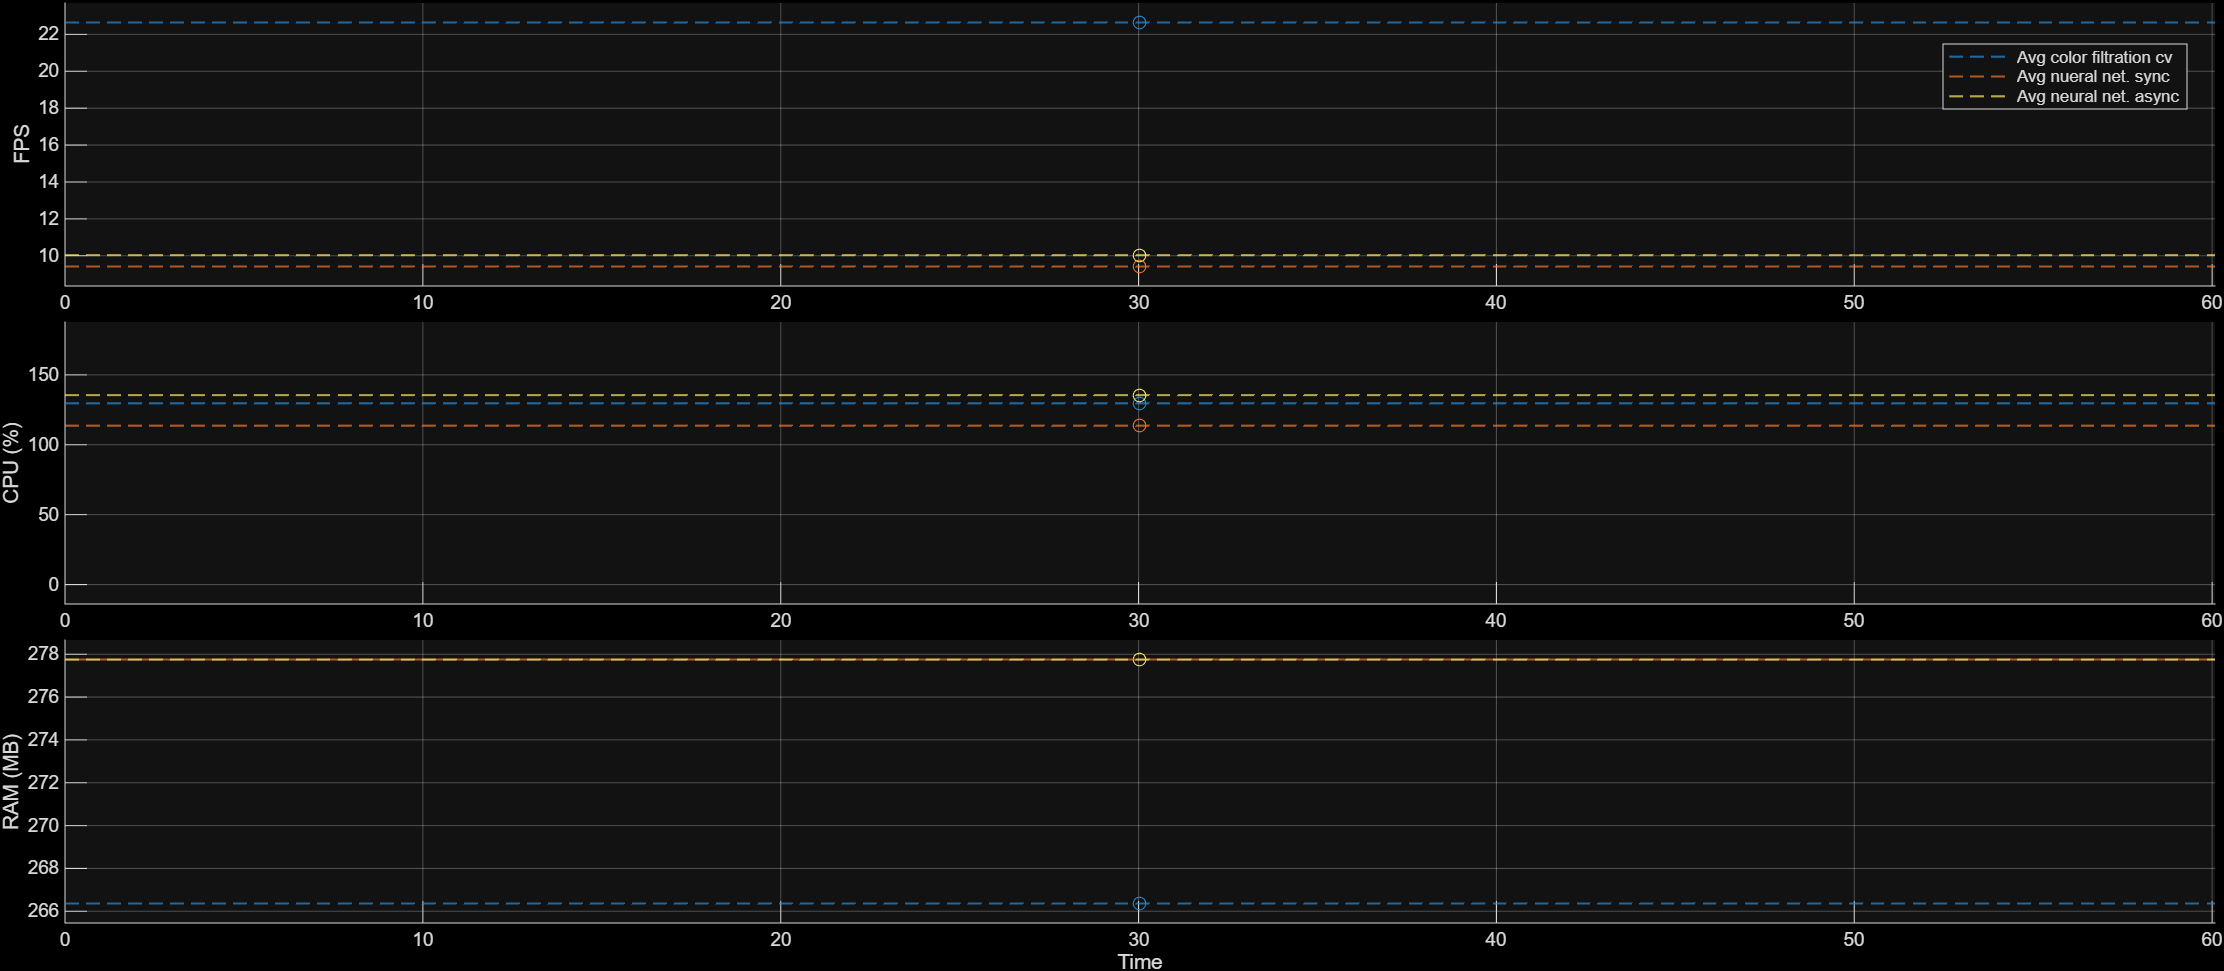
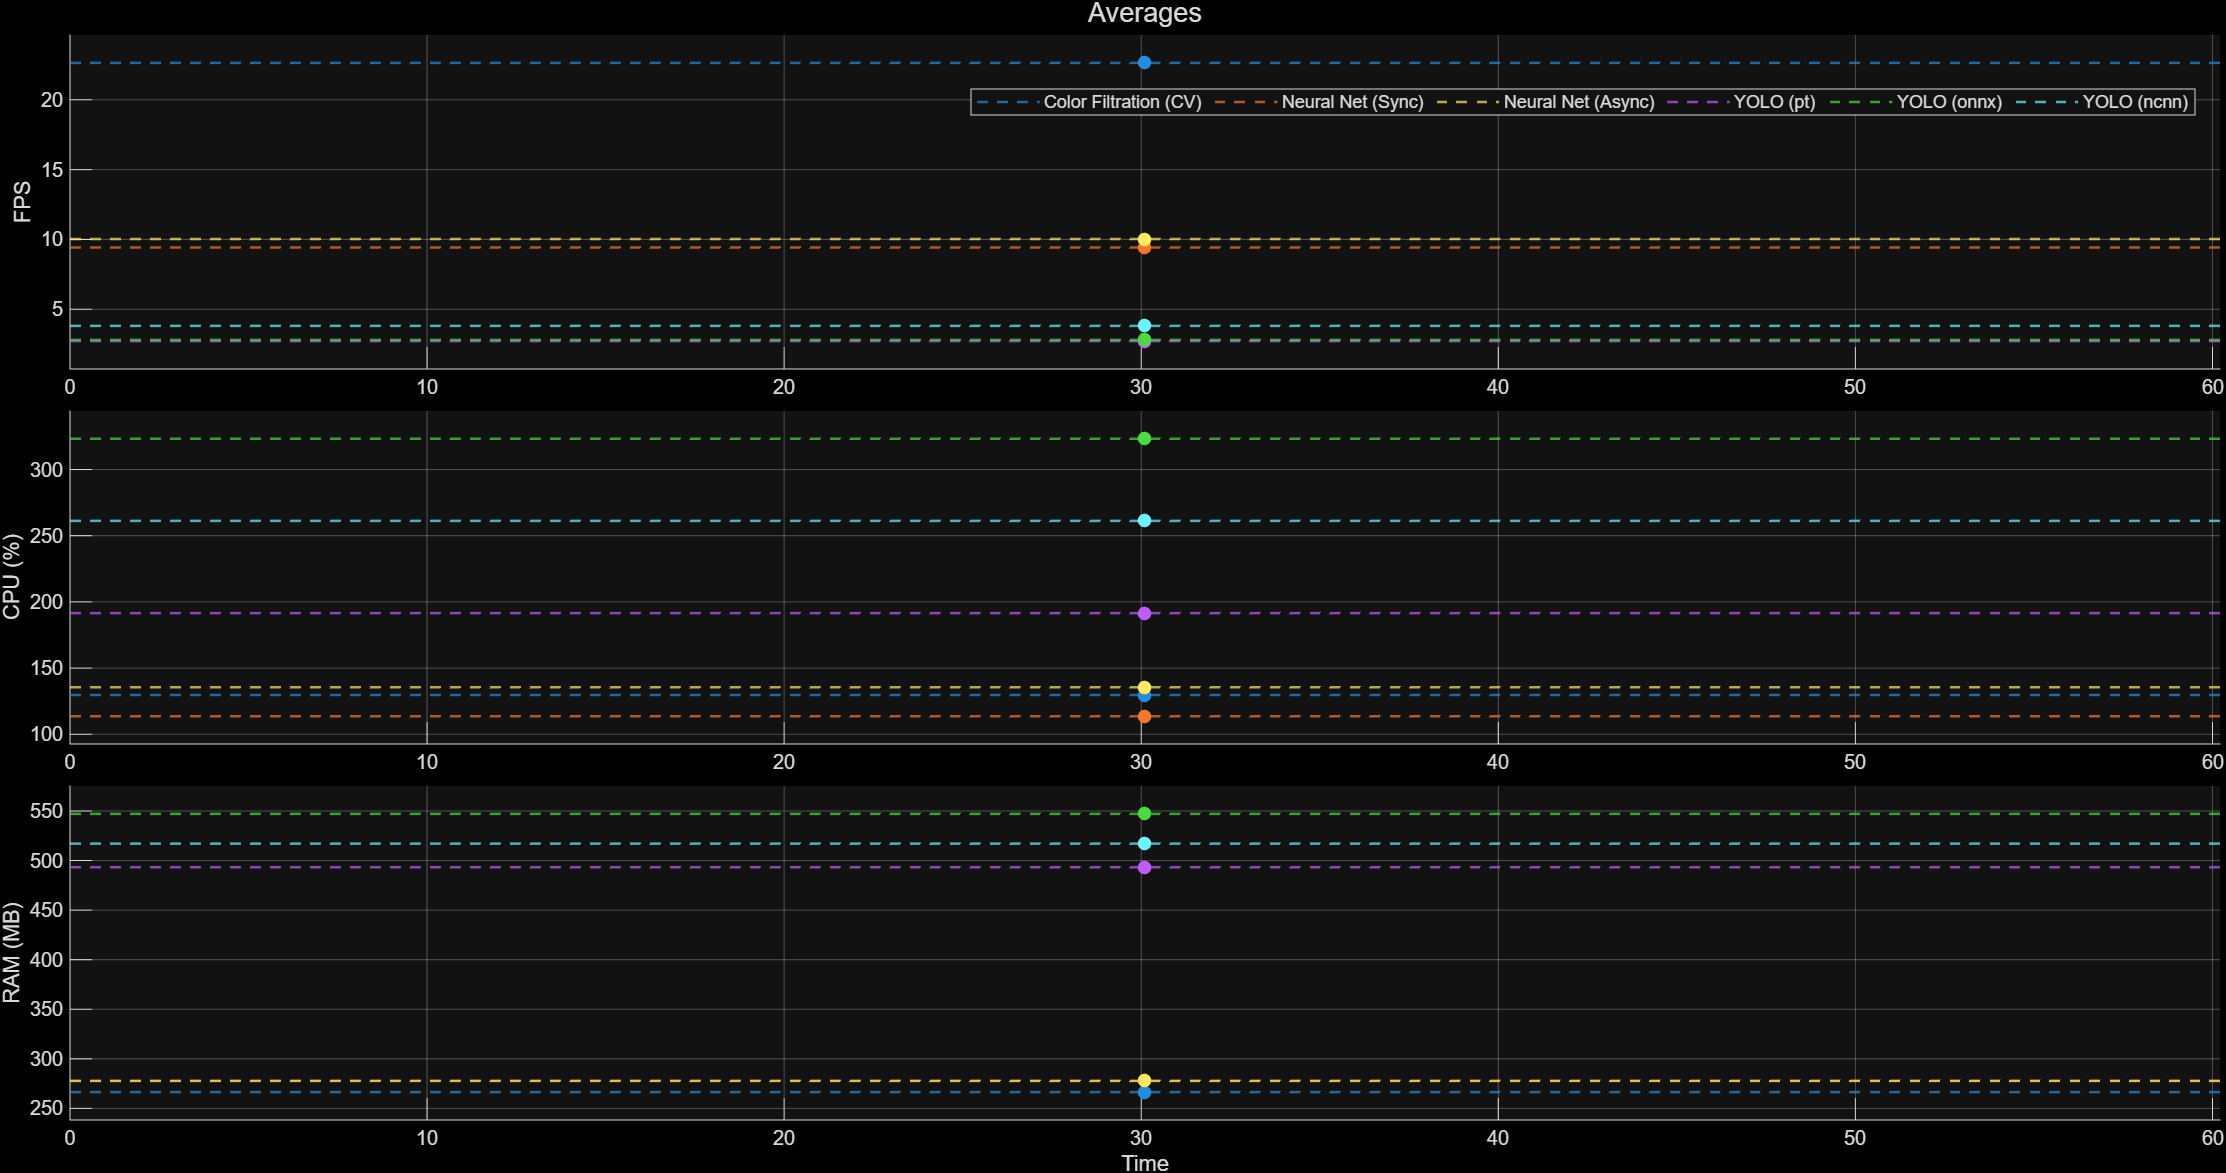
Yolo benchmarking added.

diff --git a/README.md b/README.md
@@ -76,30 +76,49 @@ During development, two different architectural approaches were tested to handle
 
 ## Benchmarking 
 
-**Time series figures:**
+**Time series figures (Python):**
 
 ![Time series figures](images/time_series.png)
 
-**Averages figures**
+**Averages figures (Python)**
 
 ![Average figures](images/averages.png)
 
 > **Note:** In linux system CPU percentage usage is calulated in way where each core has 100%. In our case Raspberry PI 5 has 4 cores so maximum capacity of our processor would be expresed as 400%.
 
-**1. Color Filtration (Blue Line)**
-* **Performance:** Highest throughput (~22-24 FPS).
+**1. Color Filtration**
+* **Performance:** Highest throughput (~22.6 FPS).
 * **Resource Usage:** Moderate CPU load (~130%).
 * **Conclusion:** Extremely efficient for simple tasks like line following or colored object tracking.
 
-**2. Neural Network - Synchronous Mode (Red Line)**
-* **Performance:** ~9 FPS. Frame rate is strictly locked to the CPU inference time.
+**2. Neural Network - Synchronous Mode**
+* **Performance:** ~9.4 FPS. Frame rate is strictly locked to the CPU inference time.
 * **Resource Usage:** Lowest CPU load (~115%).
 * **Characteristics:** Zero-lag visualization. The displayed frame always matches the inference result perfectly because processing blocks the execution.
 
-**3. Neural Network - Asynchronous Mode (Yellow Line)**
+**3. Neural Network - Asynchronous Mode**
 * **Performance:** ~10 FPS. Maintains a consistent frame rate due to the implemented frame-skipping logic (`10 FPS target`).
 * **Resource Usage:** Highest CPU load (~140%) due to overhead from thread management and context switching.
 * **Characteristics:** While this mode introduces slight visual latency compared to the synchronous approach, it is the **safest architecture for production robotic systems**. By decoupling inference from the main thread, it ensures that the ROS 2 node remains responsive to other callbacks (e.g., emergency stop signals, sensor fusion) even under heavy load.
 
+
+**4. Neural Network - YOLOv8 Nano using PyTorch/`.pt`**
+* **Performance:** Lowest, stable ~2.7 FPS. 
+* **Resource usage:** Moderate CPU load (~192%).
+* **Analysis:** Despite using the smallest Nano model, the computational cost increased significantly compared to MediaPipe. The logs indicate suboptimal resource utilization (only ~50% of the 4-core capacity). This confirms that the standard PyTorch runtime is not optimized for ARM architectures, leading to significant overhead and poor thread scheduling.
+* **Characteristics:** High latency makes this format unsuitable for real-time robotic control loops.
+
+**5. Neural Network - YOLOv8 Nano using ONNX Runtime/`.onnx`**
+* **Performance:** Critical saturation (~323%). Total system load peaked at 388%.
+* **Resource usage:** Highest, ~323%. This backend format is well opimized for processor computing but our ARM **Broadcom BCM2712** isn't best at computing floating point calculations. While opperating on this mode overal CPU's usage went to 388%.
+* **Analysis:** ONNX Runtime efficiently parallelized the workload across all cores, pushing the CPU to its thermal and arithmetic limits. However, the bottleneck shifted from software inefficiency to raw hardware limitations—specifically, the Broadcom BCM2712's floating-point (FP32) compute capability.
+* **Characteristics:** Unacceptable latency combined with complete resource exhaustion, leaving no headroom for other robot processes.
+
+**6. Neural Network -YOLOv8 Nano using NCNN/`.ncnn`**
+* **Performance:** Best CPU-only result among YOLO formats (~3.8 FPS).
+* **Resource usage:** Optimized (~261%).
+* **Analysis:** The NCNN framework (developed by Tencent) is explicitly designed for mobile/embedded systems. It leverages ARM NEON instructions and optimized memory alignment. The results show a 40% FPS improvement over PyTorch while maintaining a reasonable CPU load, proving it is the most efficient backend for CPU-based inference on Raspberry Pi.
+* **Characteristics:** While latency is still high for high-speed navigation, this format offers the best trade-off for static tasks or slow maneuvers without hardware acceleration.
+
 **System Headroom:**
-In all test cases, CPU usage peaked around 1.6 Load Average (on a 4-core system). This indicates that approximately **60% of the Raspberry Pi's computational power remains available** for other critical subsystems such as Lidar processing, SLAM, or motor control.
+Running modern Convolutional Neural Networks (CNN) like YOLOv8 on a Raspberry Pi 5 CPU is possible but constrained by compute power (2-4 FPS). While NCNN offers the best CPU performance, achieving real-time control (>30 FPS) requires a dedicated hardware accelerator, such as the Raspberry Pi AI Kit (Hailo-8L). This will be the next step in the project development.
